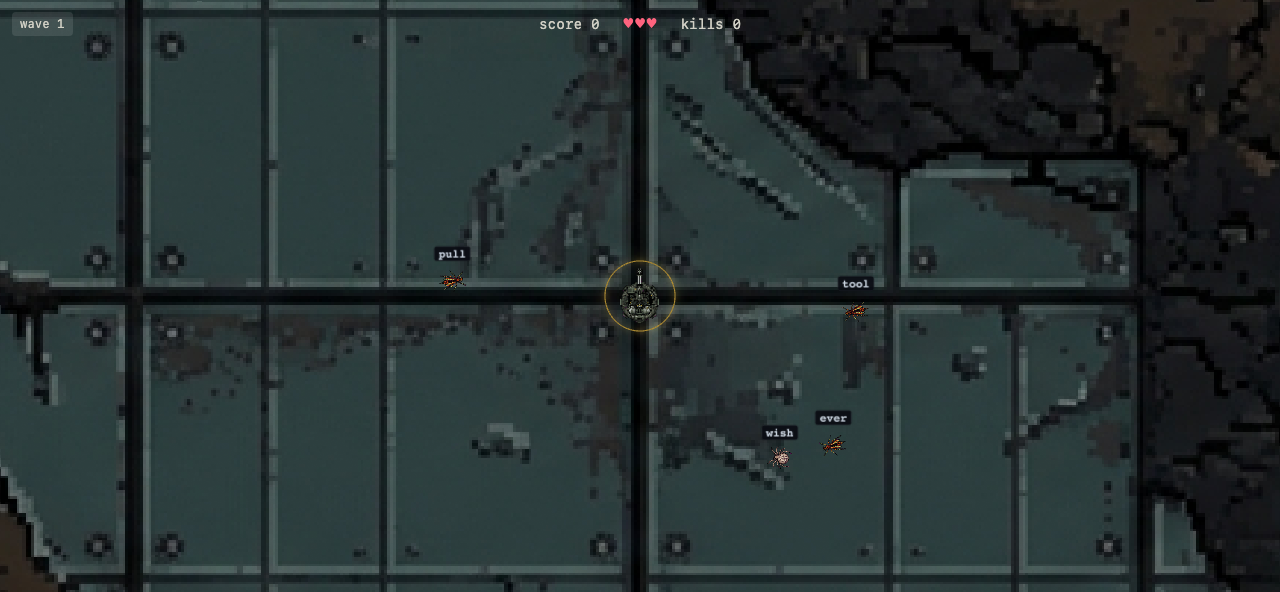
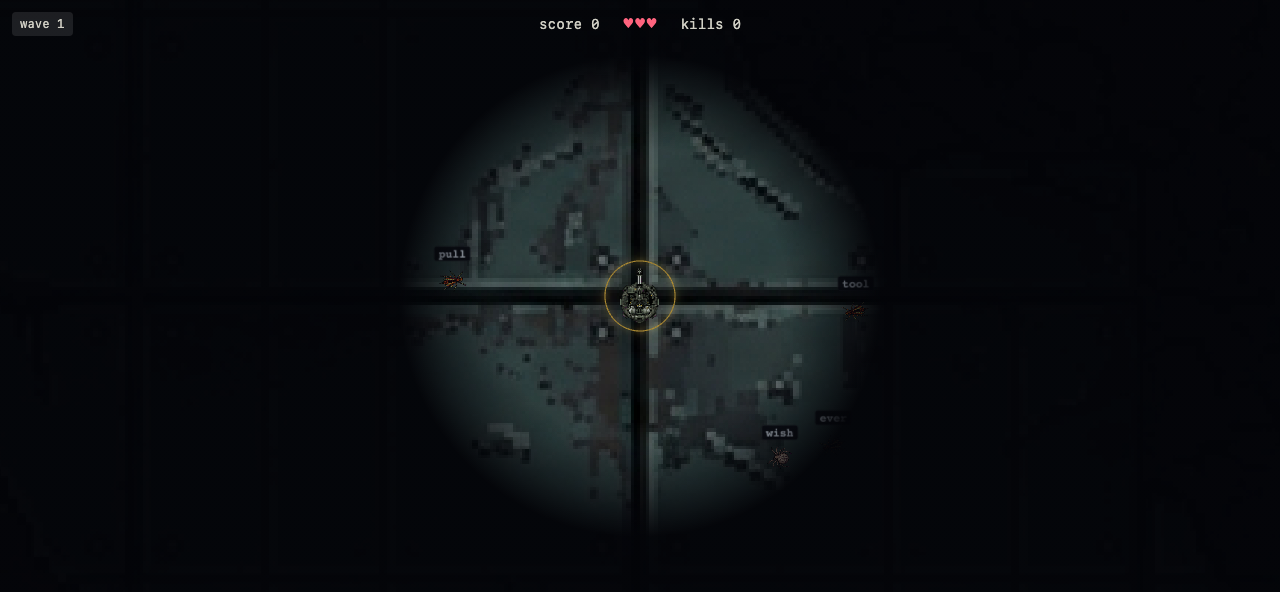
feat(game): darkness vignette so enemies emerge instead of popping in
Enemies spawn on a 34-unit ring that sits well inside the ortho frame
on wide viewports, so they appeared out of thin air mid-screen. A
world-radius radial gradient (shared ORTHO_HALF via lib/game/view)
darkens the field past ~19 units to near-opaque before the ring —
spawns materialise out of the dark and fade in as they advance.

Claude-Session: https://claude.ai/code/session_013aa37iZH7FgCByvdKxReNx

diff --git a/src/lib/game/view.test.ts b/src/lib/game/view.test.ts
@@ -1,0 +1,36 @@
+import { describe, expect, it } from "vitest";
+import { ORTHO_HALF, vignetteGradient } from "./view";
+
+describe("vignetteGradient", () => {
+	it("returns none for an unmeasured shell", () => {
+		expect(vignetteGradient(0)).toBe("none");
+		expect(vignetteGradient(Number.NaN)).toBe("none");
+		expect(vignetteGradient(-10)).toBe("none");
+	});
+
+	it("builds a radial gradient with ordered pixel stops", () => {
+		const g = vignetteGradient(760);
+		expect(g).toContain("radial-gradient(circle at center");
+		const stops = [...g.matchAll(/(\d+)px/g)].map((m) => Number(m[1]));
+		expect(stops).toHaveLength(3);
+		expect(stops[0]).toBeLessThan(stops[1]);
+		expect(stops[1]).toBeLessThan(stops[2]);
+	});
+
+	it("scales stops linearly with canvas height", () => {
+		const stops = (h: number) =>
+			[...vignetteGradient(h).matchAll(/(\d+)px/g)].map((m) => Number(m[1]));
+		const small = stops(380);
+		const large = stops(760);
+		for (let i = 0; i < 3; i++) {
+			expect(large[i]).toBeCloseTo(small[i] * 2, 0);
+		}
+	});
+
+	it("keeps the darkness inside the frame's half-height in world units", () => {
+		// the darkest stop must sit below ORTHO_HALF so the gradient is visible
+		const g = vignetteGradient(2 * ORTHO_HALF); // 1px per world unit
+		const stops = [...g.matchAll(/(\d+)px/g)].map((m) => Number(m[1]));
+		expect(stops[2]).toBeLessThan(ORTHO_HALF);
+	});
+});

diff --git a/src/lib/game/view.ts b/src/lib/game/view.ts
@@ -1,0 +1,32 @@
+/**
+ * Shared view constants/math between the Babylon scene and the Solid shell.
+ * MUST stay free of Babylon imports — the shell uses it inside the main bundle
+ * while the render chunk stays lazy.
+ */
+
+// world half-HEIGHT the ortho camera frames (see render/scene.ts applyOrtho);
+// half-width follows the viewport aspect so world cells stay square on screen
+export const ORTHO_HALF = 38;
+
+// Vignette bands in world units. Enemies spawn at ARENA.spawnRadius (34) which
+// on wide viewports sits well INSIDE the visible frame — the vignette hides the
+// ring behind near-opaque darkness so enemies emerge from the dark instead of
+// popping into existence. Powerups (radius ≤ 17) stay in the clear zone.
+const CLEAR_RADIUS = 19; // fully transparent out to here
+const DIM_RADIUS = 26; // mid fade — approaching enemies become readable
+const DARK_RADIUS = 31; // near-opaque before the 34-unit spawn ring
+
+/**
+ * Screen-space radial gradient for the darkness vignette, sized from the live
+ * canvas CSS height (the ortho frame always shows 2×ORTHO_HALF world units
+ * vertically, so px-per-unit = height / (2×ORTHO_HALF) on both axes — cells
+ * are square). Returns "none" until the shell has measured a real height.
+ */
+export function vignetteGradient(cssHeight: number): string {
+	if (!Number.isFinite(cssHeight) || cssHeight <= 0) return "none";
+	const ppu = cssHeight / (2 * ORTHO_HALF);
+	const clear = Math.round(CLEAR_RADIUS * ppu);
+	const dim = Math.round(DIM_RADIUS * ppu);
+	const dark = Math.round(DARK_RADIUS * ppu);
+	return `radial-gradient(circle at center, transparent ${clear}px, rgba(3, 4, 8, 0.55) ${dim}px, rgba(3, 4, 8, 0.97) ${dark}px)`;
+}

diff --git a/src/components/game/GameShell.tsx b/src/components/game/GameShell.tsx
@@ -10,6 +10,7 @@ import type { GameLoop } from "@/lib/game/render/loop";
 import { deriveRunStats } from "@/lib/game/sim/run-stats";
 import { COMBO_DECAY_TICKS, comboMultiplier } from "@/lib/game/sim/score";
 import type { GameState } from "@/lib/game/sim/state";
+import { vignetteGradient } from "@/lib/game/view";
 import { getBestRun, saveGameRun, useBestRun } from "@/lib/game-runs";
 import DeathScreen from "./DeathScreen";
 import StartScreen from "./StartScreen";
@@ -28,6 +29,7 @@ declare global {
 
 export default function GameShell() {
 	let canvasRef: HTMLCanvasElement | undefined;
+	let shellRef: HTMLDivElement | undefined;
 	let loop: GameLoop | undefined;
 	let disposed = false;
 	let startLoop:
@@ -178,9 +180,33 @@ export default function GameShell() {
 		onCleanup(() => window.removeEventListener("keydown", onKeyDown));
 	});
 
+	// live canvas CSS height → drives the vignette gradient's pixel radii (the
+	// ortho camera always frames 2×ORTHO_HALF world units vertically)
+	const [shellHeight, setShellHeight] = createSignal(0);
+	onMount(() => {
+		if (!shellRef) return;
+		const ro = new ResizeObserver((entries) => {
+			setShellHeight(entries[0]?.contentRect.height ?? 0);
+		});
+		ro.observe(shellRef);
+		onCleanup(() => ro.disconnect());
+	});
+
 	return (
-		<div class="relative h-[calc(100vh-8rem)] w-full" data-testid="game-shell">
+		<div
+			ref={shellRef}
+			class="relative h-[calc(100vh-8rem)] w-full"
+			data-testid="game-shell"
+		>
 			<canvas ref={canvasRef} class="h-full w-full outline-none" />
+			{/* darkness past the spawn ring: enemies emerge from the dark instead of
+			    popping into view mid-screen (the ring sits inside the frame on wide
+			    viewports). Sits above the canvas, below every HUD/overlay element. */}
+			<div
+				data-testid="game-vignette"
+				class="pointer-events-none absolute inset-0"
+				style={{ "background-image": vignetteGradient(shellHeight()) }}
+			/>
 			<Show when={!ready()}>
 				<div class="absolute inset-0 grid place-items-center text-sm opacity-70">
 					Loading arena…

diff --git a/e2e/game.spec.ts b/e2e/game.spec.ts
@@ -49,6 +49,28 @@ test.describe("horde game mode", () => {
 		expect(state?.kills).toBe(1);
 	});
 
+	test("spawn-ring vignette overlays the arena and tracks canvas size", async ({
+		page,
+	}) => {
+		await page.goto("/game?seed=42&testMode=1");
+		await page.waitForFunction(() => window.__game !== undefined);
+		const vignette = page.getByTestId("game-vignette");
+		await expect(vignette).toBeVisible();
+		// a world-radius radial gradient: transparent centre, near-opaque past the
+		// spawn ring, so enemies emerge from darkness instead of popping in
+		const bg = await vignette.evaluate(
+			(el) => getComputedStyle(el).backgroundImage,
+		);
+		expect(bg).toContain("radial-gradient");
+		// gradient is sized from the live canvas, so a resize must rescale it
+		await page.setViewportSize({ width: 800, height: 500 });
+		const bgSmall = await vignette.evaluate(
+			(el) => getComputedStyle(el).backgroundImage,
+		);
+		expect(bgSmall).toContain("radial-gradient");
+		expect(bgSmall).not.toBe(bg);
+	});
+
 	test("holds the sim at tick 0 behind the start overlay", async ({ page }) => {
 		// NON-testMode load (a real session): the loop renders the scene but must
 		// not advance the sim until the player starts. window.__game is

diff --git a/src/lib/game/render/scene.ts b/src/lib/game/render/scene.ts
@@ -8,6 +8,7 @@ import { StandardMaterial } from "@babylonjs/core/Materials/standardMaterial";
 import { Color3, Color4, Vector3 } from "@babylonjs/core/Maths/math";
 import { CreateDisc } from "@babylonjs/core/Meshes/Builders/discBuilder";
 import { Scene } from "@babylonjs/core/scene";
+import { ORTHO_HALF } from "../view";
 import { createGroundDecals, type GroundDecals } from "./ground-decals";
 
 export type GameScene = {
@@ -54,10 +55,10 @@ export function createGameScene(
 	camera.mode = Camera.ORTHOGRAPHIC_CAMERA;
 	camera.minZ = -200; // ortho: keep the whole flat field within the clip range
 	camera.maxZ = 400;
-	// ORTHO_HALF is the world half-height the frame shows; the ~34-unit spawn ring
-	// then sits ~90% toward the top/bottom edge. Left/right follow the viewport
-	// aspect so world cells stay SQUARE on screen (no stretch) at any window size.
-	const ORTHO_HALF = 38;
+	// ORTHO_HALF (shared via ../view so the shell's vignette can mirror the
+	// frame) is the world half-height shown; the ~34-unit spawn ring then sits
+	// ~90% toward the top/bottom edge. Left/right follow the viewport aspect so
+	// world cells stay SQUARE on screen (no stretch) at any window size.
 	function applyOrtho(): void {
 		// guard the aspect against a degenerate render size: a zero height yields
 		// width/0 = Infinity (truthy, so `|| 1` would NOT catch it), and a zero